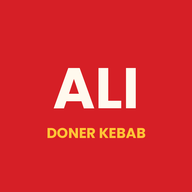
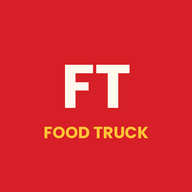
Add files via upload

Changed region(s): [[0.2812, 0.3125, 0.7188, 0.5938], [0.2188, 0.6562, 0.7812, 0.75]]

diff --git a/js/app.js b/js/app.js
@@ -1,4 +1,4 @@
-/* Lógica principal de Cocina y Caja · Ali Doner Kebab */
+/* Lógica principal de Cocina y Caja · Food Truck */
 let firebaseReady = false;
 let db = null;
 
@@ -188,7 +188,7 @@ const I18N = {
     legendFree: "Libre", legendBusy: "Con pedido", legendBarra: "Barra",
     keyFree: "Libre", keyBusy: "Ocupada",
     btnSaldo: "Saldo sala", btnHistorial: "📖 Historial", btnSalon: "🎨 Diseño",
-    themeNames: ["🎨 Diseño: Ali Doner", "🎨 Diseño: Noche", "🎨 Diseño: Verde Pakistán", "🎨 Diseño: Azafrán"],
+    themeNames: ["🎨 Diseño: Food Truck", "🎨 Diseño: Noche", "🎨 Diseño: Verde Pakistán", "🎨 Diseño: Azafrán"],
     btnTickets: "Tickets aparcados", btnJuntar: "Juntar mesas",
     back: "← Mesas",
     comanda: "Comanda", comandaBarra: "Pedido para llevar",
@@ -201,7 +201,7 @@ const I18N = {
     add: "Añadir",
     mixerWith: "Con ",
      note: "Nota", notePlaceholder: "Escribe una nota…", noteSave: "Guardar nota", noNote: "Sin nota",
-    ticketMark: "ALI DONER · COMANDA",
+    ticketMark: "FOOD TRUCK · COMANDA",
     ticketEmpty: "Aún no hay artículos<br>en esta mesa",
     total: "Total",
     itemsCount: (n)=> n + (n===1 ? " artículo" : " artículos"),
@@ -356,7 +356,7 @@ const I18N = {
     legendFree: "Free", legendBusy: "Order open", legendBarra: "Bar",
     keyFree: "Free", keyBusy: "Occupied",
     btnSaldo: "Floor balance", btnHistorial: "📖 History", btnSalon: "🎨 Design",
-    themeNames: ["🎨 Theme: Ali Doner", "🎨 Theme: Night", "🎨 Theme: Pakistan green", "🎨 Theme: Saffron"],
+    themeNames: ["🎨 Theme: Food Truck", "🎨 Theme: Night", "🎨 Theme: Pakistan green", "🎨 Theme: Saffron"],
     btnTickets: "Parked tickets", btnJuntar: "Merge tables",
     back: "← Tables",
     comanda: "Order", comandaBarra: "Takeaway order",
@@ -369,7 +369,7 @@ const I18N = {
     add: "Add",
     mixerWith: "With ",
      note: "Note", notePlaceholder: "Write a note…", noteSave: "Save note", noNote: "No note",
-    ticketMark: "ALI DONER · ORDER",
+    ticketMark: "FOOD TRUCK · ORDER",
     ticketEmpty: "No items yet<br>for this table",
     total: "Total",
     itemsCount: (n)=> n + (n===1 ? " item" : " items"),
@@ -436,7 +436,7 @@ const I18N = {
 };
 
 /* ===================== STATE ===================== */
-// Plano de sala de Ali Doner Kebab (según el dibujo): 4 columnas x 3 filas.
+// Plano de sala de Food Truck (según el dibujo): 4 columnas x 3 filas.
 //   fila 1:  ·  1  2  3
 //   fila 2:  ·  4  5  6
 //   fila 3:  7  8  9  10
@@ -465,14 +465,14 @@ let currentLang = "es";
 // (cola de platos por preparar, sin poder tomar pedidos). Se guarda por dispositivo.
 let appRole = "comanda";
 try{
-  const savedRole = localStorage.getItem("ali_role");
+  const savedRole = localStorage.getItem("ft_role");
   if(savedRole === "cocina") appRole = savedRole;
 }catch(e){}
 const THEME_CLASSES = ["", "theme-noche", "theme-pakistan", "theme-azafran"];
 let themeIndex = 0;
 // Cada dispositivo recuerda el diseño elegido.
 try{
-  const savedTheme = parseInt(localStorage.getItem("ali_theme"), 10);
+  const savedTheme = parseInt(localStorage.getItem("ft_theme"), 10);
   if(savedTheme > 0 && savedTheme < THEME_CLASSES.length){
     themeIndex = savedTheme;
     document.documentElement.className = THEME_CLASSES[themeIndex];
@@ -528,7 +528,7 @@ function cycleTheme(){
   themeIndex = (themeIndex + 1) % THEME_CLASSES.length;
   const cls = THEME_CLASSES[themeIndex];
   document.documentElement.className = cls;
-  try{ localStorage.setItem("ali_theme", String(themeIndex)); }catch(e){}
+  try{ localStorage.setItem("ft_theme", String(themeIndex)); }catch(e){}
   showToast(I18N[currentLang].themeNames[themeIndex]);
 }
 
@@ -640,7 +640,7 @@ function joinSession(code){
   if(firebaseReady){
     attachSessionListeners(code);
   }
-  try{ localStorage.setItem("ali_session_code", code); }catch(e){}
+  try{ localStorage.setItem("ft_session_code", code); }catch(e){}
   document.getElementById("login-view").hidden = true;
   showRoleView();
 }
@@ -648,7 +648,7 @@ function joinSession(code){
 function leaveSession(){
   detachSessionListeners();
   currentSession = null;
-  try{ localStorage.removeItem("ali_session_code"); }catch(e){}
+  try{ localStorage.removeItem("ft_session_code"); }catch(e){}
   orders = {};
   ALL_IDS.forEach(id => orders[id] = {});
   history = [];
@@ -740,8 +740,8 @@ function setRole(role){
   appRole = role;
   if(typeof renderInbox === "function") renderInbox();
   try{
-    if(role === "cocina" || role === "pizza" || role === "postre") localStorage.setItem("ali_role", role);
-    else localStorage.removeItem("ali_role"); // "comanda" y "caja" no se recuerdan
+    if(role === "cocina" || role === "pizza" || role === "postre") localStorage.setItem("ft_role", role);
+    else localStorage.removeItem("ft_role"); // "comanda" y "caja" no se recuerdan
   }catch(e){}
   if(currentSession) showRoleView();
   else updateRoleButtons();
@@ -1051,7 +1051,7 @@ function printHTML(bodyHtml){
   document.body.appendChild(iframe);
   const doc = iframe.contentWindow.document;
   doc.open();
-  doc.write(`<!DOCTYPE html><html><head><meta charset="utf-8"><title>Ali Doner Kebab</title>
+  doc.write(`<!DOCTYPE html><html><head><meta charset="utf-8"><title>Food Truck</title>
     <style>
       /* Quita el margen de página que pone el navegador por defecto al
          imprimir: en un rollo de papel continuo (impresora de tickets) eso
@@ -1105,7 +1105,7 @@ function printHTML(bodyHtml){
 }
 
 // Datos fiscales del negocio, tal y como aparecen en el ticket impreso.
-const BIZ_NAME = "ALI DONER KEBAB";
+const BIZ_NAME = "FOOD TRUCK";
 const BIZ_ADDRESS = ["CARRER DE CÒRSEGA 629", "08025 BARCELONA", "TEL. 657 340 510 / 930 000 783"];
 const BIZ_LEGAL = ""; // ← razón social del negocio (rellenar)
 const BIZ_CIF = "";   // ← CIF/NIF del negocio (rellenar)
@@ -1123,11 +1123,11 @@ function escapeHtml(s){
 // tanto si se imprime el "pendiente de cobro" como el recibo final ya cobrado.
 let ticketCounter = 1;
 try{
-  const savedTicketCounter = localStorage.getItem("ali_ticket_counter");
+  const savedTicketCounter = localStorage.getItem("ft_ticket_counter");
   if(savedTicketCounter) ticketCounter = parseInt(savedTicketCounter, 10) || 1;
 }catch(e){}
 function saveTicketCounter(){
-  try{ localStorage.setItem("ali_ticket_counter", String(ticketCounter)); }catch(e){}
+  try{ localStorage.setItem("ft_ticket_counter", String(ticketCounter)); }catch(e){}
 }
 let tableTicketNumbers = {}; // tableId -> nº de ticket asignado a la comanda actual
 function getTicketNumberForTable(tableId){
@@ -2161,7 +2161,7 @@ function printCloseDaySummary(){
   const localeMap = { es:"es-ES", ca:"ca-ES", en:"en-GB" };
   const now = new Date().toLocaleString(localeMap[currentLang],{day:"2-digit",month:"2-digit",year:"numeric",hour:"2-digit",minute:"2-digit"});
   printHTML(`
-    <h2>ALI DONER KEBAB</h2>
+    <h2>FOOD TRUCK</h2>
     <p class="center muted">Cierre de día — ${now}</p>
     <hr>
     <div class="line"><span>Tickets cobrados</span><span>${numTickets}</span></div>

diff --git a/index.html b/index.html
@@ -4,7 +4,7 @@
 <meta charset="UTF-8">
 <meta name="viewport" content="width=device-width, initial-scale=1.0, maximum-scale=1, viewport-fit=cover">
 <meta name="color-scheme" content="dark">
-<title>Comanda · Ali Doner Kebab</title>
+<title>Comanda · Food Truck</title>
 
 <!-- ===== PWA: para poder "Añadir a pantalla de inicio" en móvil/tablet
      y que se abra a pantalla completa, sin la barra del navegador ===== -->
@@ -14,7 +14,7 @@
 <meta name="apple-mobile-web-app-capable" content="yes">
 <meta name="mobile-web-app-capable" content="yes">
 <meta name="apple-mobile-web-app-status-bar-style" content="black-translucent">
-<meta name="apple-mobile-web-app-title" content="Ali Doner">
+<meta name="apple-mobile-web-app-title" content="Food Truck">
 <link rel="apple-touch-icon" href="apple-touch-icon.png">
 <link rel="icon" href="icon-192-any.png">
 
@@ -30,8 +30,8 @@
   <div id="login-view" hidden>
     <div class="login-wrap">
       <div class="login-brand">
-        <div class="mark">A</div>
-        <h1>Ali Doner Kebab</h1>
+        <div class="mark">FT</div>
+        <h1>Food Truck</h1>
       </div>
       <p class="login-sub" id="login-sub">Introduce el código de tu sesión.</p>
       <form id="login-form" class="login-form" autocomplete="off">
@@ -47,9 +47,9 @@
   <div id="home-view" hidden>
     <div class="topbar" style="position:static;border:none;padding:0;background:none;margin-bottom:0;">
       <div class="brand">
-        <div class="mark">A</div>
+        <div class="mark">FT</div>
         <div>
-          <h1>Ali Doner Kebab</h1>
+          <h1>Food Truck</h1>
           <small id="tagline">Comanda de sala</small>
         </div>
       </div>
@@ -130,7 +130,7 @@
       <aside class="ticket-panel" id="ticket-panel">
         <div class="ticket-inner">
           <div class="ticket-head">
-            <div class="mark" id="ticket-brand-mark">ALI DONER · COMANDA</div>
+            <div class="mark" id="ticket-brand-mark">FOOD TRUCK · COMANDA</div>
             <div class="mesa-num" id="ticket-mesa-num">Mesa 1</div>
             <div class="ts" id="ticket-ts"></div>
           </div>

diff --git a/js/cajon.js b/js/cajon.js
@@ -53,7 +53,7 @@
     drawerDevice = device;
     drawerEndpoint = found.endpointNumber;
     drawerInterfaceNumber = found.interfaceNumber;
-    try{ localStorage.setItem("ali_drawer_paired", "1"); }catch(e){}
+    try{ localStorage.setItem("ft_drawer_paired", "1"); }catch(e){}
     updateDrawerButtonStatus("on");
   }
 
@@ -83,7 +83,7 @@
         await openDeviceForUse(devices[0]);
       } else {
         let paired = false;
-        try{ paired = localStorage.getItem("ali_drawer_paired") === "1"; }catch(e){}
+        try{ paired = localStorage.getItem("ft_drawer_paired") === "1"; }catch(e){}
         updateDrawerButtonStatus(paired ? "error" : "off");
       }
     }catch(err){
@@ -95,7 +95,7 @@
   async function openCashDrawer(){
     if(!drawerDevice){
       let paired = false;
-      try{ paired = localStorage.getItem("ali_drawer_paired") === "1"; }catch(e){}
+      try{ paired = localStorage.getItem("ft_drawer_paired") === "1"; }catch(e){}
       if(!paired){
         // Nunca se ha vinculado la impresora: no interrumpimos el cobro con
         // un diálogo de USB; solo avisamos para que se vincule desde "Conectar caja".
@@ -132,7 +132,7 @@
 
   window.openCashDrawer = openCashDrawer;
   let paired0 = false;
-  try{ paired0 = localStorage.getItem("ali_drawer_paired") === "1"; }catch(e){}
+  try{ paired0 = localStorage.getItem("ft_drawer_paired") === "1"; }catch(e){}
   updateDrawerButtonStatus(paired0 ? "error" : "off");
   tryAutoReconnectDrawer();
 })();

diff --git a/css/app.css b/css/app.css
@@ -1,6 +1,6 @@
-/* Estilos de Cocina y Caja · Ali Doner Kebab */
+/* Estilos de Cocina y Caja · Food Truck */
   :root{
-    /* Paleta Ali Doner Kebab (rojo / amarillo de su carta) */
+    /* Paleta Food Truck (rojo / amarillo de su carta) */
     color-scheme: light;
     --ink:#fff9ee;        /* fondo crema */
     --ink-2:#f5eddf;
@@ -916,7 +916,7 @@
   #vkb-overlay.vkb-numeric .vkb-ok-row .vkb-ok{flex:1;padding:12px 0;}
   body.vkb-open{padding-bottom:0;}
 
-/* ===================== ESTILO ALI DONER KEBAB (como manosalwa.es) ===================== */
+/* ===================== ESTILO FOOD TRUCK ===================== */
 body{background:var(--ink) !important;background-image:none !important;color:var(--text-hi);}
 .topbar{border-bottom:1px solid var(--border);}
 .brand .mark{background:var(--stamp);color:#fff;font-family:var(--font-display);font-size:18px;box-shadow:none;}

diff --git a/js/config.js b/js/config.js
@@ -1,5 +1,5 @@
 /* =====================================================================
-   CONFIGURACIÓN DE COCINA Y CAJA · Ali Doner Kebab
+   CONFIGURACIÓN DE COCINA Y CAJA · Food Truck
    Firebase tiene que ser EL MISMO que en la tablet de mesa (pedidos/mesa/js/config.js).
    ===================================================================== */
 /* =====================================================================
@@ -39,6 +39,6 @@ const FIREBASE_CONFIG = {
   messagingSenderId: "490070778149",
   appId: "1:490070778149:web:6fc91223d6fe9f04697acc"
 };
-// Todo lo de Ali Doner Kebab se guarda bajo esta carpeta de la base de datos,
+// Todo lo de Food Truck se guarda bajo esta carpeta de la base de datos,
 // separado de cualquier otro local que use el mismo proyecto de Firebase.
-const DB_ROOT = "alidoner/";
+const DB_ROOT = "foodtruck/";

diff --git a/js/avisos.js b/js/avisos.js
@@ -1,5 +1,5 @@
 /* ===================== AVISOS DE LAS TABLETS DE MESA =====================
-   La app de mesa (clientes) escribe en  alidoner/sessions/sala/inbox :
+   La app de mesa (clientes) escribe en  foodtruck/sessions/sala/inbox :
    pedidos nuevos, "llamar al camarero" y "pedir la cuenta".
    Aquí salen como tarjetas abajo a la izquierda, con sonido, hasta que alguien pulsa "Visto".
    Los platos del pedido ya están metidos en la comanda de la mesa, así que Cocina los ve directamente. */

diff --git a/js/carta.js b/js/carta.js
@@ -1,4 +1,4 @@
-/* ===================== CARTA ALI DONER KEBAB (ES / EN / UR) =====================
+/* ===================== CARTA FOOD TRUCK (ES / EN / UR) =====================
    Todo lo prepara Cocina. "group" solo sirve para agrupar la carta en pantalla
    (Comida / Bebidas). Los artículos con "extras" abren un selector al añadirlos
    (carne, refresco...). Para cambiar un precio, edita "price". */
